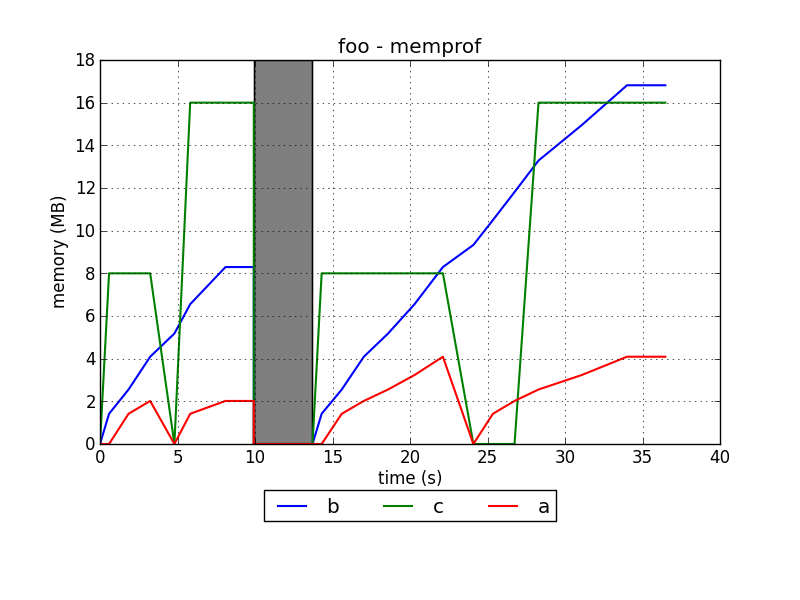
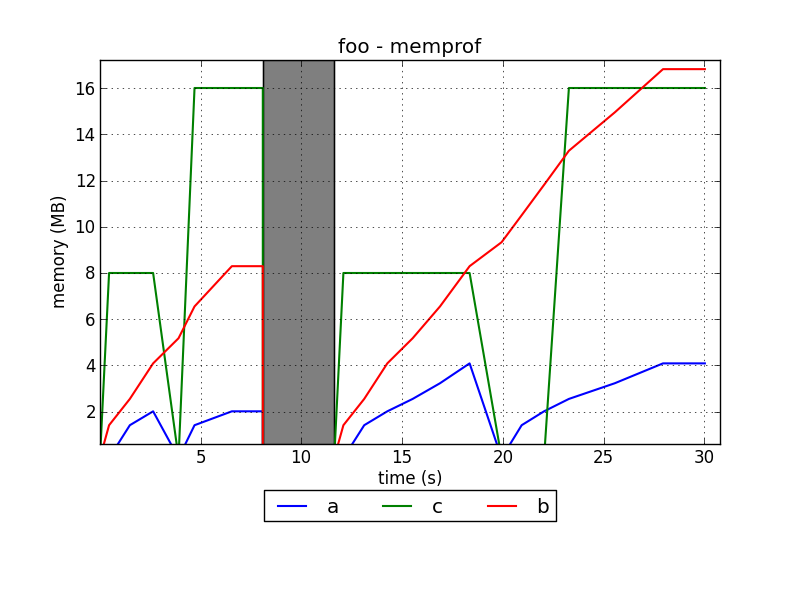
ymin is now the threshold instead of 0

diff --git a/memprof/mp_utils.py b/memprof/mp_utils.py
@@ -81,6 +81,13 @@ def gen_chart(logfile, threshold):
   hl = sorted(zip(handles, labels),key=operator.itemgetter(1))
   handles, labels = zip(*hl)
 
+  maxy = max(map(max,cache.values()))
+  gapy = (maxy - threshold/factor)/40
+  ax.set_ylim(max(0,threshold/factor - gapy),maxy + gapy)
+  
+  gapx = (times[-1] - times[0])/40
+  ax.set_xlim(times[0],times[-1] + gapx)
+  
   plt.legend(handles,labels)
   
   box = ax.get_position()
